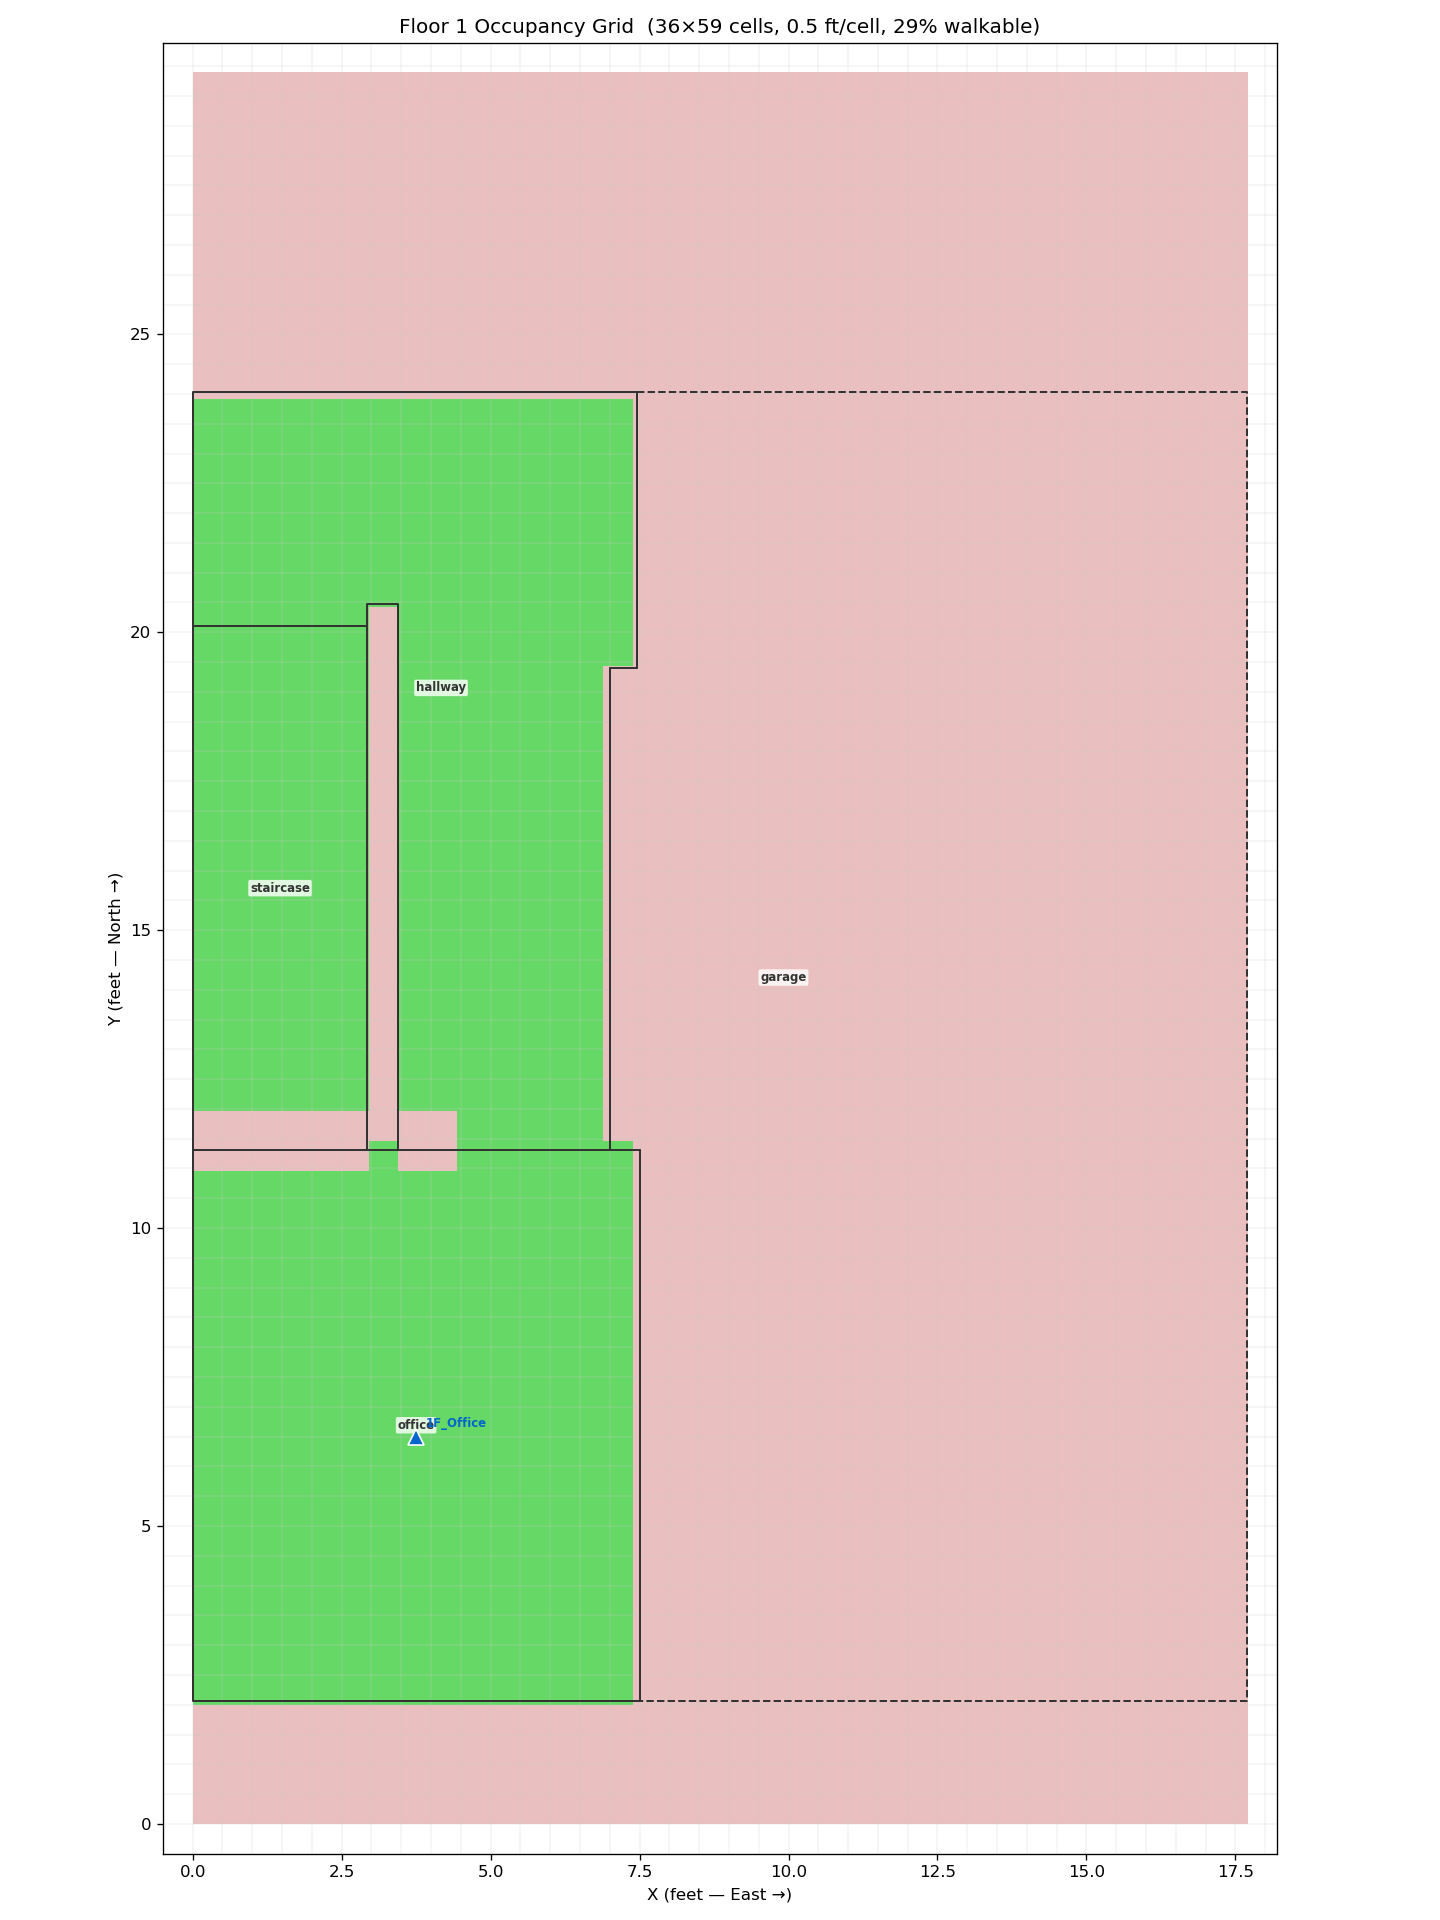
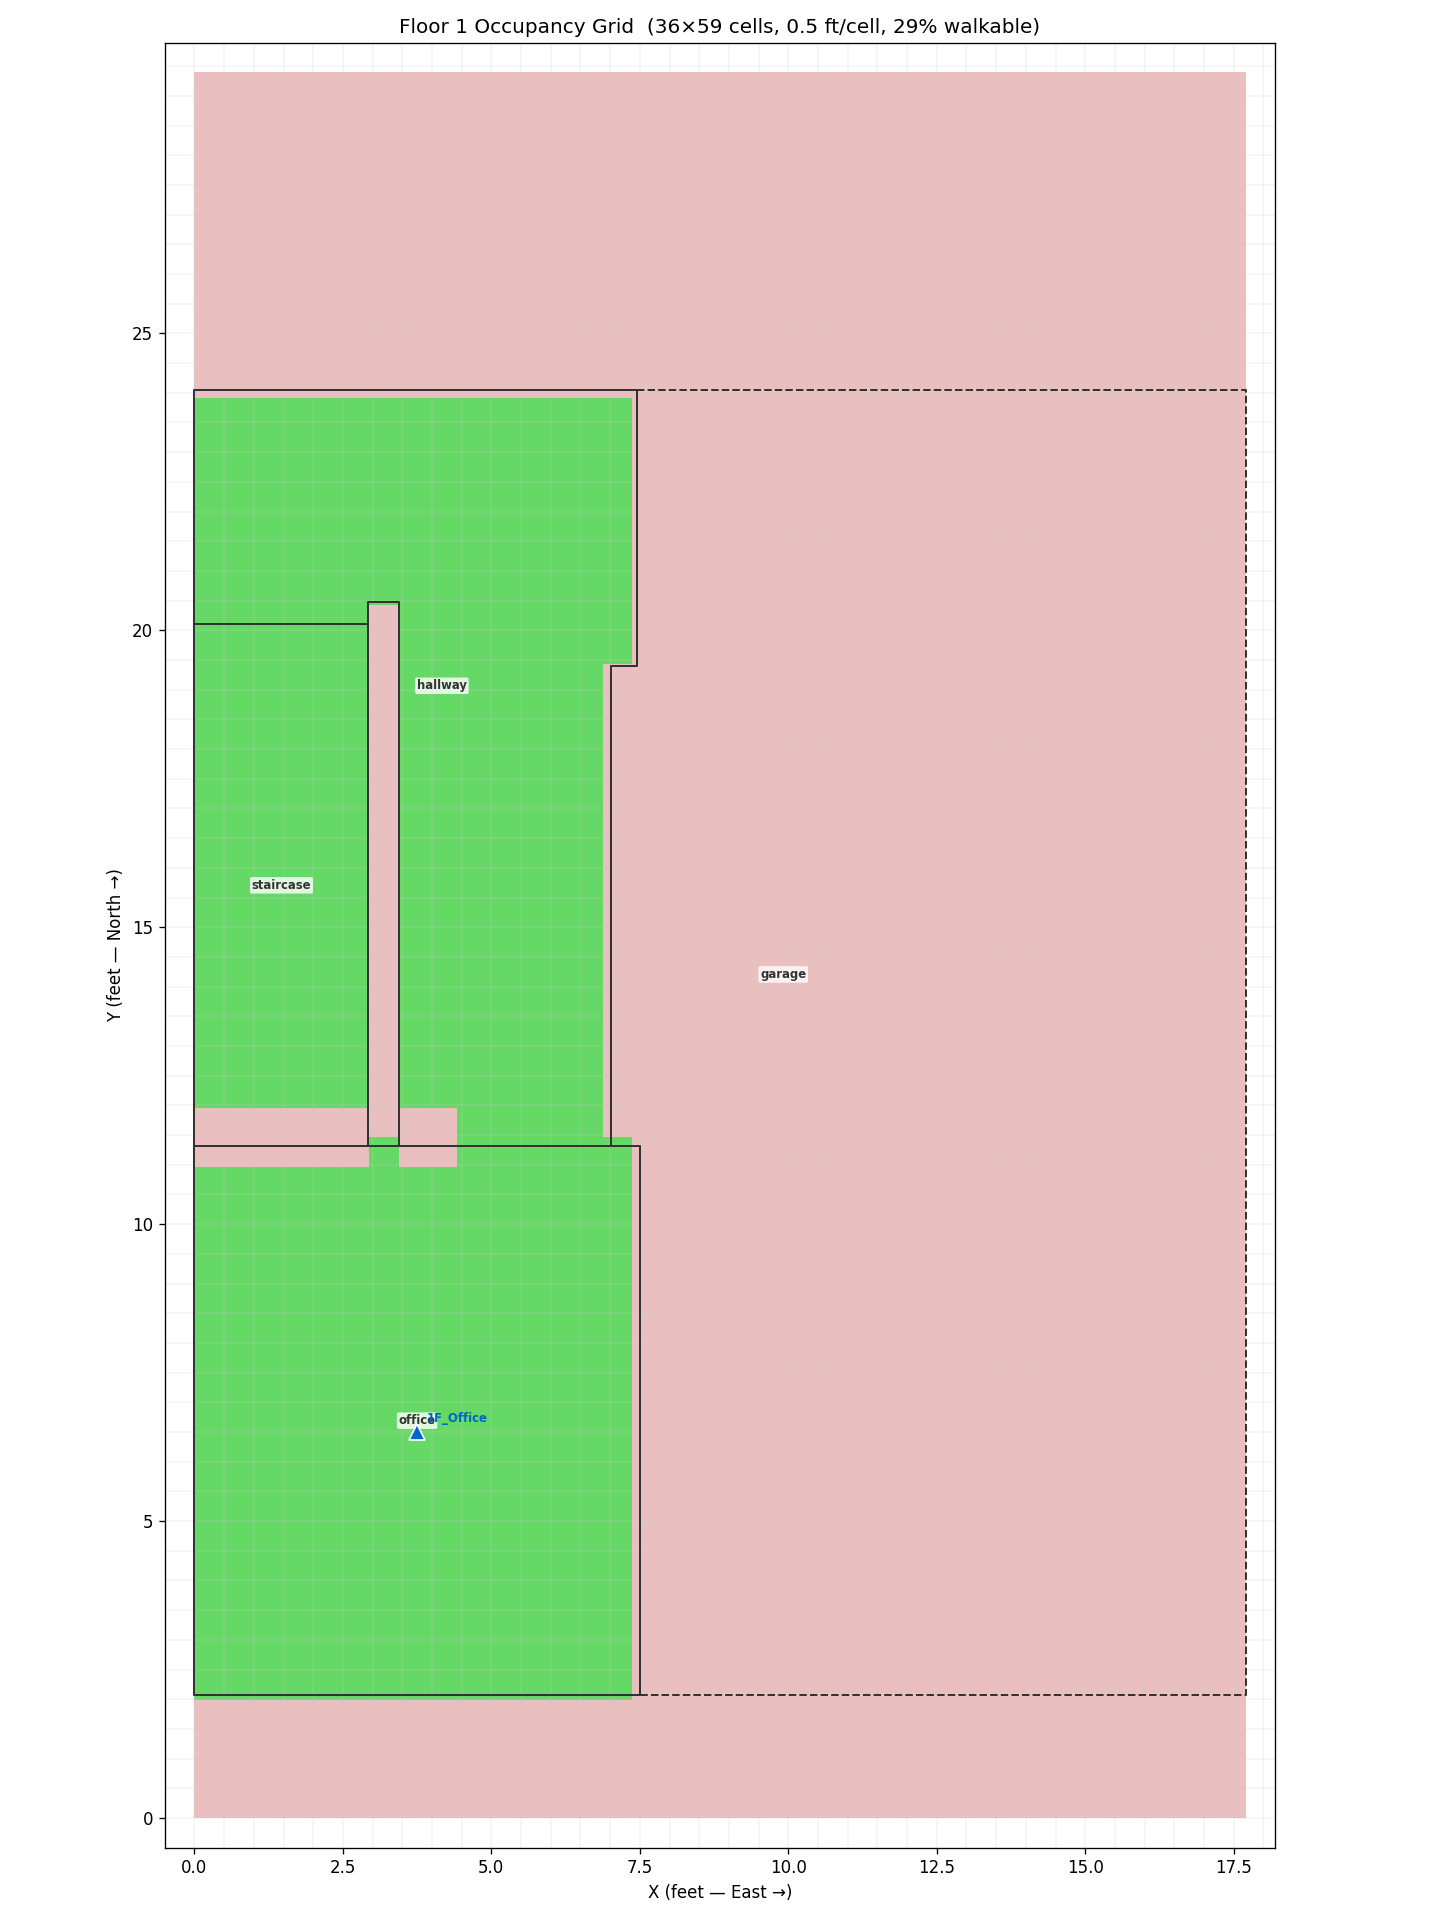
Use stairs_openings array and add survey plots
Normalize stairs openings in layout.json by adding a schema entry and replacing singular "stairs_opening" objects with "stairs_openings" arrays in room definitions. Update plot_layout.py to iterate over room.get('stairs_openings', []) and draw each opening with STAIRS_COLOR. Also update several floor layout/occupancy images and add new survey_grid PNGs for floors 1–3.

diff --git a/scripts/plot_layout.py b/scripts/plot_layout.py
@@ -300,9 +300,8 @@ def draw_floor(ax, floor_data, title, room_color_map=None, show_vertices=True):
         for door in room.get('doorways', []):
             draw_door(ax, door)
 
-        # Stairs opening
-        stairs_opening = room.get('stairs_opening')
-        if stairs_opening:
+        # Stairs openings
+        for stairs_opening in room.get('stairs_openings', []):
             draw_door(ax, stairs_opening, color=STAIRS_COLOR)
 
         # Gates
